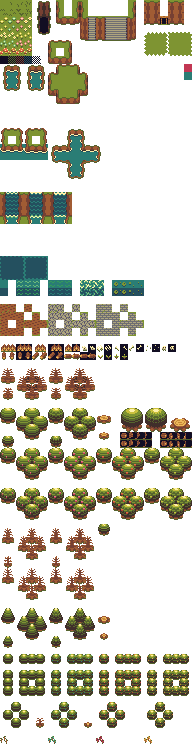
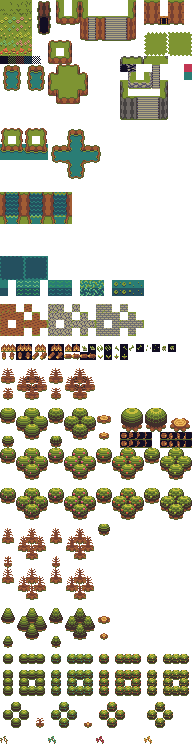
cliffs

Changed region(s): [[0.625, 0.0618, 0.875, 0.1855], [0.1562, 0.0927, 0.2188, 0.1237], [0.0, 0.0309, 0.0312, 0.0618]]

diff --git a/generateCliffTileMap.js b/generateCliffTileMap.js
@@ -3,17 +3,51 @@ import { getRandomTile } from "./getRandomTile.js";
 import { getTileSpritePosition } from "./getTileSpritePosition.js";
 import { createRandom } from "./seed.js";
 
+/*
+// gray cliff
+export const CLIFF_BORDER_TOP = 185;
+export const CLIFF_BORDER_RIGHT = 285;
+export const CLIFF_BORDER_LEFT = 280;
+
+// Surface outside corners (convex)
+export const CLIFF_BORDER_CORNER_TOP_LEFT = 184;
+export const CLIFF_BORDER_CORNER_TOP_RIGHT = 186;
+
+// Surface inside corners (concave)
+export const CLIFF_BORDER_INSIDE_TOP_LEFT = 187;
+export const CLIFF_BORDER_INSIDE_TOP_RIGHT = 189;
+
+export const CLIFF_BORDER_INSIDE_BOTTOM_LEFT_TOP = 256;
+export const CLIFF_BORDER_INSIDE_BOTTOM_RIGHT_TOP = 261;
+export const CLIFF_BORDER_INSIDE_BOTTOM_LEFT_MID = 280;
+export const CLIFF_BORDER_INSIDE_BOTTOM_RIGHT_MID = 285;
+
+// Wall tiles: 3 rows (top, mid, bottom) × 3 variants (left, center, right)
+// Wall top row (distFromBottom = 2)
+export const CLIFF_WALL_TOP_LEFT = 304;
+export const CLIFF_WALL_TOP_CENTER = 305;
+export const CLIFF_WALL_TOP_RIGHT = 309;
+
+// Wall middle row (distFromBottom = 1)
+export const CLIFF_WALL_MID_LEFT = 328;
+export const CLIFF_WALL_MID_CENTER = 329;
+export const CLIFF_WALL_MID_RIGHT = 333;
+
+// Wall bottom row (distFromBottom = 0)
+export const CLIFF_WALL_BOTTOM_LEFT = 352;
+export const CLIFF_WALL_BOTTOM_CENTER = 353;
+export const CLIFF_WALL_BOTTOM_RIGHT = 357;
+*/
+
+// braun
 // Surface edge tiles (same as old cliff implementation)
 export const CLIFF_BORDER_TOP = 201;
 export const CLIFF_BORDER_RIGHT = 251;
-//export const CLIFF_BORDER_BOTTOM = 297;
 export const CLIFF_BORDER_LEFT = 247;
 
 // Surface outside corners (convex)
 export const CLIFF_BORDER_CORNER_TOP_LEFT = 200;
 export const CLIFF_BORDER_CORNER_TOP_RIGHT = 202;
-// export const CLIFF_BORDER_CORNER_BOTTOM_LEFT = 296;
-// export const CLIFF_BORDER_CORNER_BOTTOM_RIGHT = 298;
 
 // Surface inside corners (concave)
 export const CLIFF_BORDER_INSIDE_TOP_LEFT = 224;
@@ -23,8 +57,6 @@ export const CLIFF_BORDER_INSIDE_BOTTOM_LEFT_TOP = 11;
 export const CLIFF_BORDER_INSIDE_BOTTOM_RIGHT_TOP = 17;
 export const CLIFF_BORDER_INSIDE_BOTTOM_LEFT_MID = 35;
 export const CLIFF_BORDER_INSIDE_BOTTOM_RIGHT_MID = 41;
-// export const CLIFF_BORDER_INSIDE_BOTTOM_LEFT_BOTTOM = 59;
-// export const CLIFF_BORDER_INSIDE_BOTTOM_RIGHT_BOTTOM = 65;
 
 // Wall tiles: 3 rows (top, mid, bottom) × 3 variants (left, center, right)
 // Wall top row (distFromBottom = 2)
@@ -113,10 +145,10 @@ function getCliffSurfaceTile(valueMap, x, y, existingTileMap, random) {
   if (bottomLeftTop && !top && !right && !bottomTop && bottomLeftTop && bottomMid) return CLIFF_WALL_MID_LEFT;
 
   if (bottomLeftBottom && !bottomLeftMid && !left && !right && !top && !bottomMid && !bottomBottom) return CLIFF_BORDER_INSIDE_BOTTOM_LEFT_TOP;
-  if (bottomLeftMid && !left && !right && !top && !bottomMid && !bottomBottom) return CLIFF_BORDER_INSIDE_BOTTOM_LEFT_MID;
+  if (bottomLeftMid && !left && !right && !top && !bottomMid && !bottomBottom && !bottomTop) return CLIFF_BORDER_INSIDE_BOTTOM_LEFT_MID;
 
   if (bottomRightBottom && !bottomRightMid && !left && !right && !top && !bottomMid && !bottomBottom) return CLIFF_BORDER_INSIDE_BOTTOM_RIGHT_TOP;
-  if (bottomRightMid && !left && !right && !top && !bottomMid && !bottomBottom) return CLIFF_BORDER_INSIDE_BOTTOM_RIGHT_MID;
+  if (bottomRightMid && !left && !right && !top && !bottomMid && !bottomBottom && !bottomTop) return CLIFF_BORDER_INSIDE_BOTTOM_RIGHT_MID;
 
   if (!top && !topRight && !right && !bottomTop && !bottomMid && bottomLeftMid && bottomLeftBottom && bottomBottom) return CLIFF_WALL_TOP_LEFT;
   if (!top && !topLeft && !left && !bottomTop && !bottomMid && bottomRightMid && bottomRightBottom && bottomBottom) return CLIFF_WALL_TOP_RIGHT;

diff --git a/generator.js b/generator.js
@@ -255,7 +255,7 @@ baseLayer.cliffValueMap = generateCliffValueMap();
 
 baseLayer.cliffTileMap = generateCliffTileMap(baseLayer.cliffValueMap, baseLayer.cliffTileMap || []);
 
-//baseLayer.treeTileMap = generateTreeTileMap(baseLayer.treeValueMap);
+baseLayer.treeTileMap = generateTreeTileMap(baseLayer.treeValueMap);
 
 layers.push(baseLayer);
 

diff --git a/generateCliffValueMap.js b/generateCliffValueMap.js
@@ -9,7 +9,7 @@ export function generateCliffValueMap() {
     }
   }
 
-  addT(map, 10, 10);
+  // addT(map, 10, 10);
 
   return map;
 }
